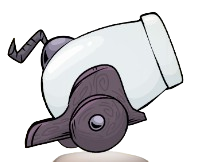
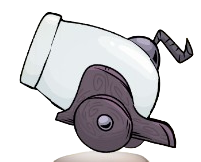
towers now rotate

diff --git a/app/GameLogic.tsx b/app/GameLogic.tsx
@@ -2849,6 +2849,13 @@ useEffect(() => {
   });
 }, [enemies, grantMoneyForKill]);
 
+// Add a helper function to calculate rotation
+const getTowerRotation = (tower: Tower, target: Enemy) => {
+  if (!target) return '';
+  const shootingRight = target.positionX > tower.positionX;
+  return shootingRight ? 'scaleX(-1)' : '';
+};
+
   return (
     <>
    <div 
@@ -2899,7 +2906,12 @@ useEffect(() => {
             id={existingTower?.id || `building-site-${index}`}
             src={existingTower ? existingTower.src : '/buildingSite.png'}
             className='absolute w-14 h-14 z-10 hover:opacity-75 transition-opacity'
-            style={{ top: pos.top, left: pos.left }}
+            style={{ 
+              top: pos.top, 
+              left: pos.left,
+              transform: existingTower?.furthestEnemyInRange?.[0] ? 
+                getTowerRotation(existingTower, existingTower.furthestEnemyInRange[0]) : ''
+            }}
             onClick={(event) => buyTowers(event, pos.x, pos.y)}
           />
         ) : null;
